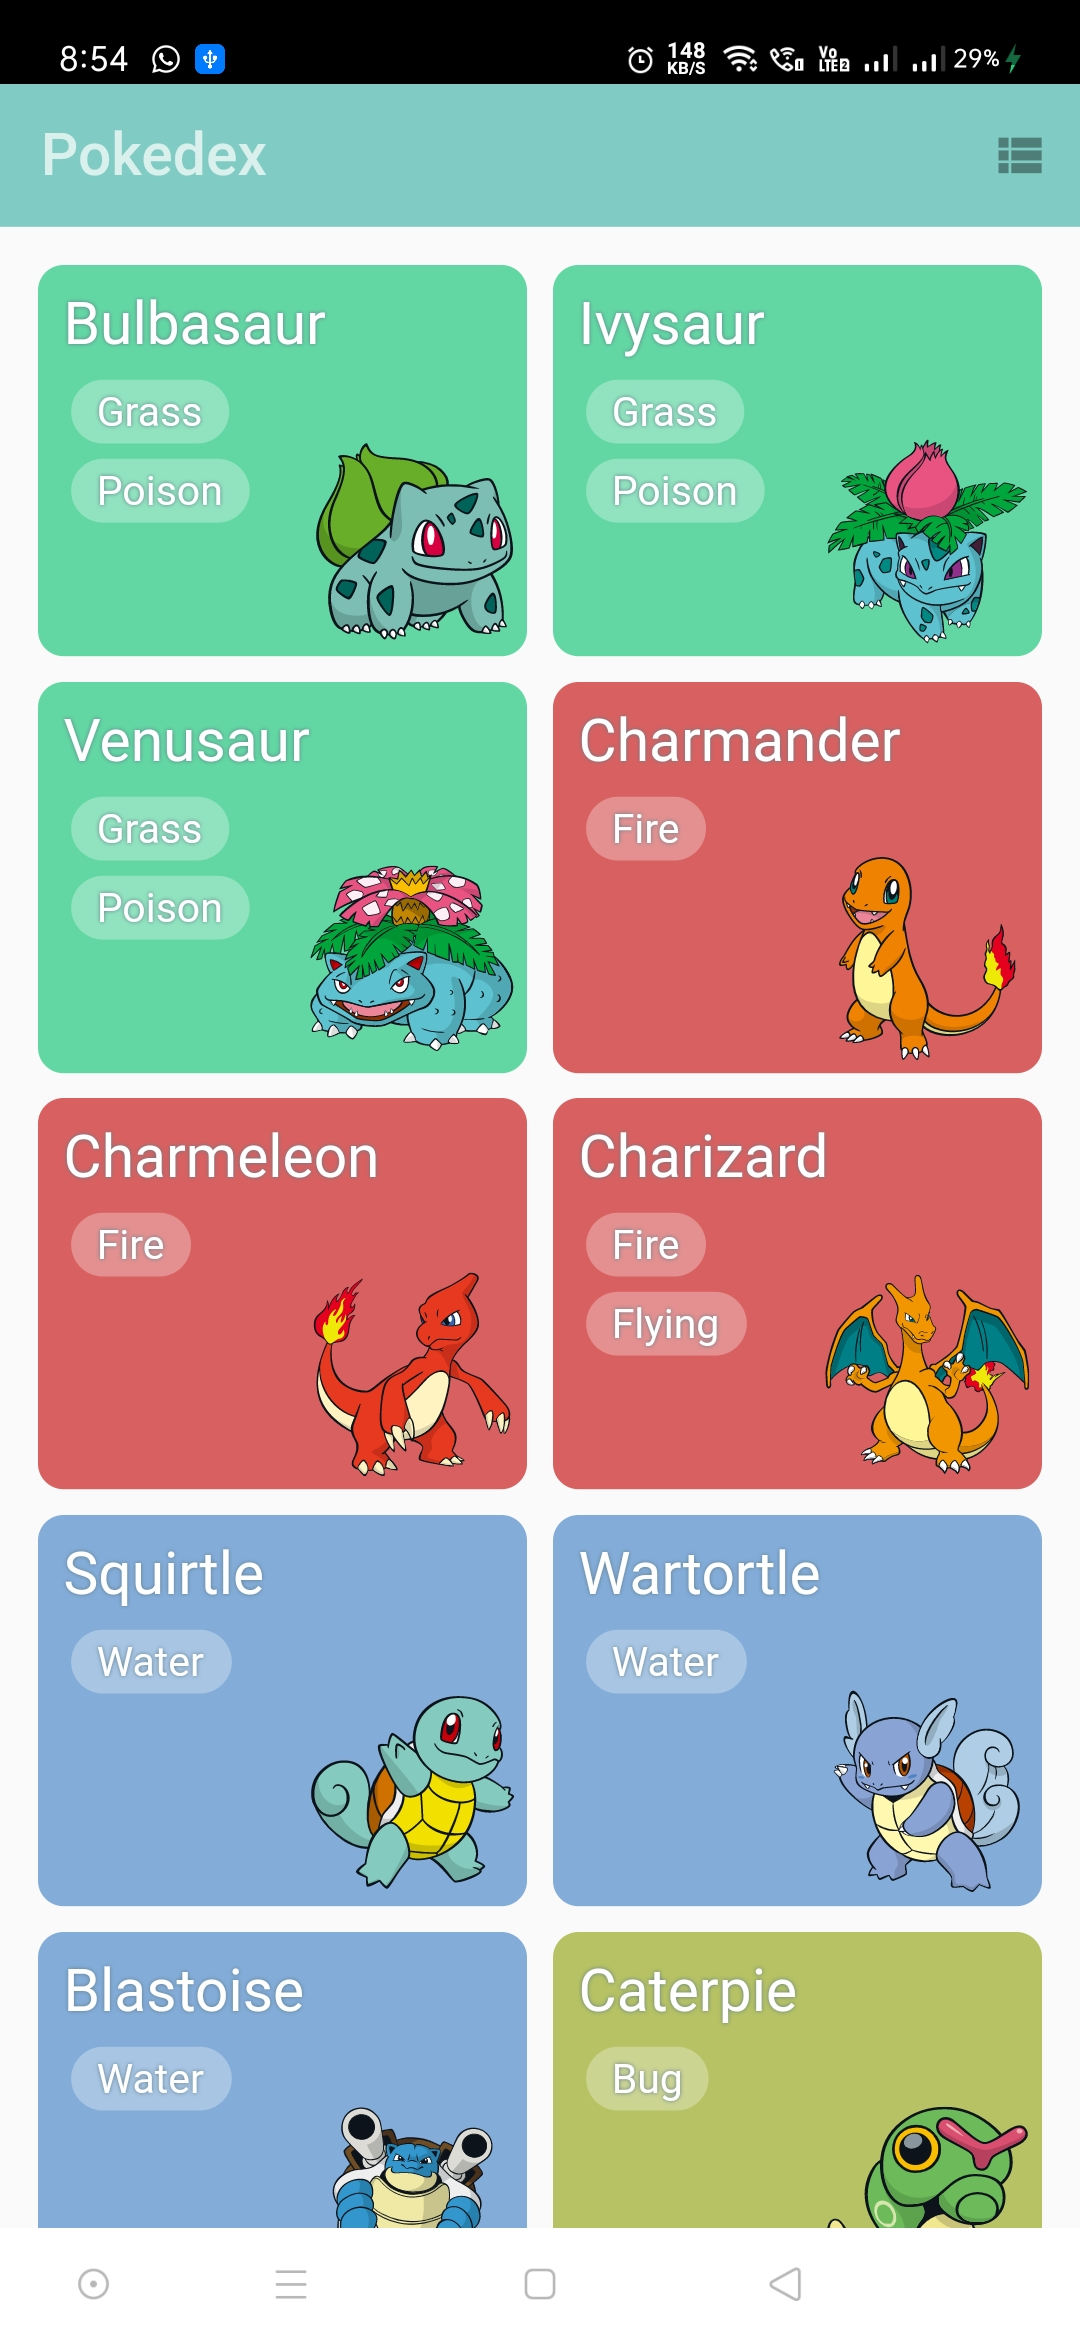
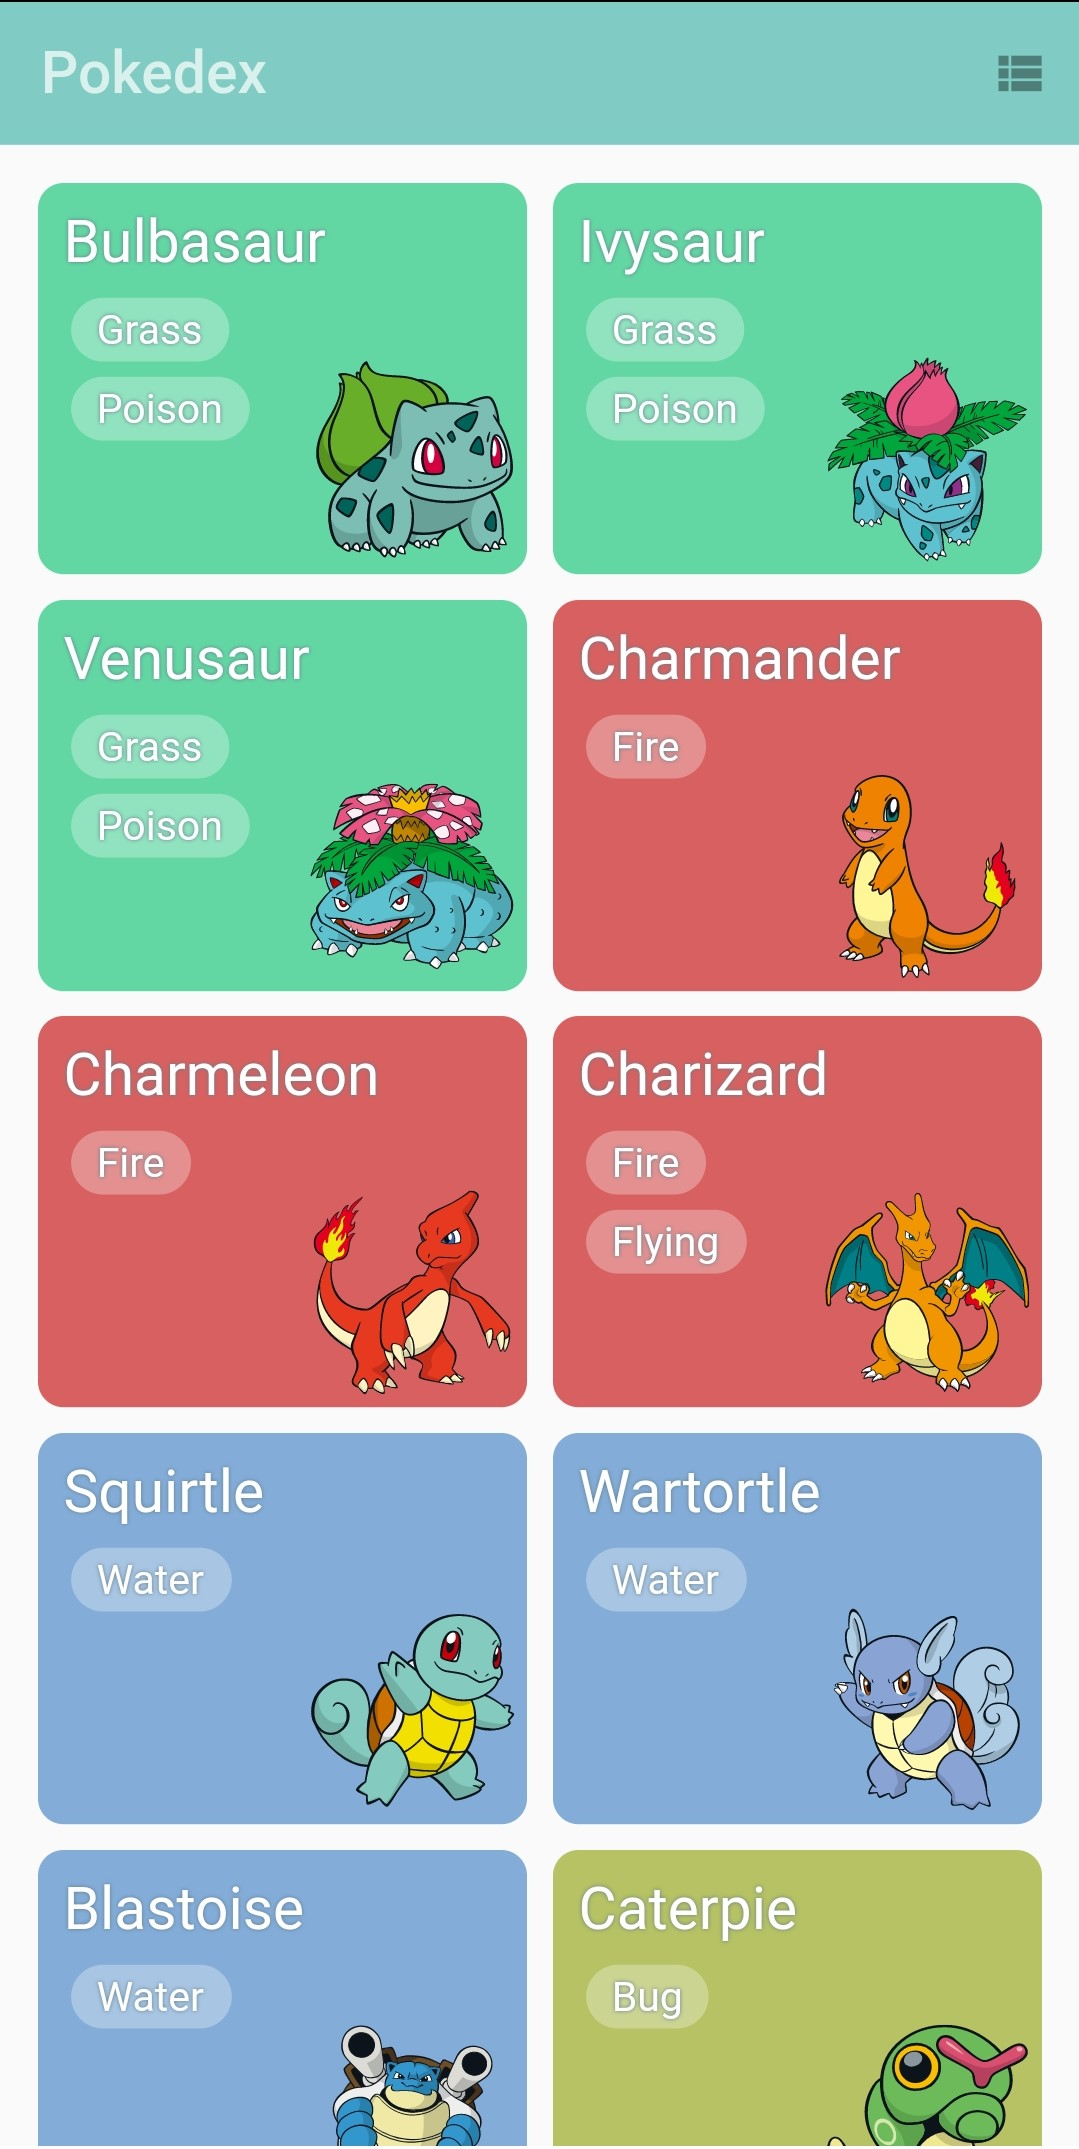
Readme.md

diff --git a/README.md b/README.md
@@ -1,9 +1,9 @@
 # pokedex
 
+
 ### Website
 ![](https://github.com/chirag-goel360/Pokemon_Pokedex/blob/main/website.png)
 
 ### Android
-<img src="https://github.com/chirag-goel360/Pokemon_Pokedex/blob/main/android1.jpg" width="800" height="1000">
-<img src="https://github.com/chirag-goel360/Pokemon_Pokedex/blob/main/android2.jpg" width="800" height="1000">
-
+![](https://github.com/chirag-goel360/Pokemon_Pokedex/blob/main/android1.jpg)
+![](https://github.com/chirag-goel360/Pokemon_Pokedex/blob/main/android2.jpg)
